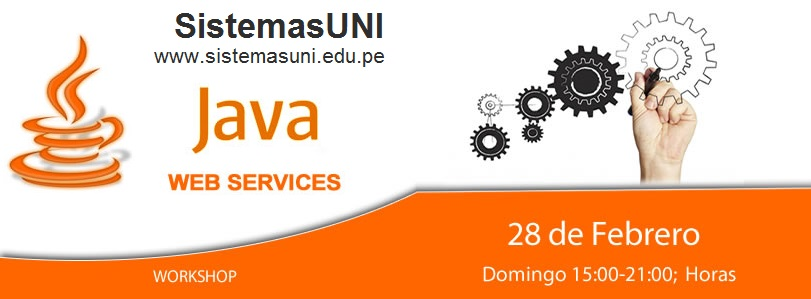
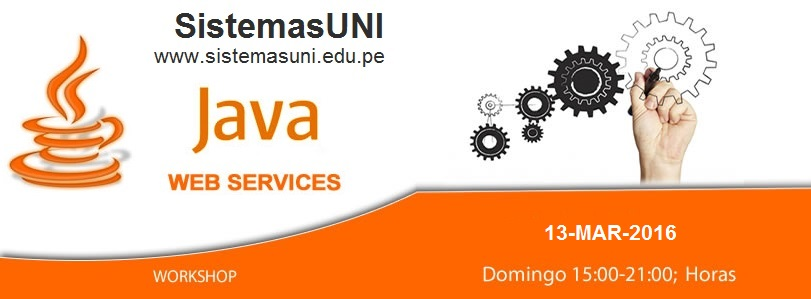
Actualizando el repositorio.

Changed region(s): [[0.6165, 0.7224, 0.8631, 0.8428]]

diff --git a/README.md b/README.md
@@ -1,10 +1,10 @@
 ![Java Web Services](https://raw.githubusercontent.com/gcoronelc/SISTUNI-JWS-002/master/JavaWebService.jpg)
 
-# SISTUNI JAVA WEB SERVICES
+# JAVA WEB SERVICES
 
 - Lugar: SistemasUNI
 - Horario: Domingos de 3 a 9 pm
-- Inicio: 28-FEB-2016
+- Inicio: 13-MAR-2016
 - Dirección: https://goo.gl/maps/98vwAt9NZMU2
 - Contenido: http://www.sistemasuni.edu.pe/dpdf/Workshops/WorkshopWebServices.pdf
 - Pagina: http://gcoronelc.github.io/SISTUNI-JWS-002/
@@ -19,7 +19,7 @@
 
 # CLASE 01
 
-- Fecha: 28-FEB-2016
+- Fecha: 13-MAR-2016
 
 
 
